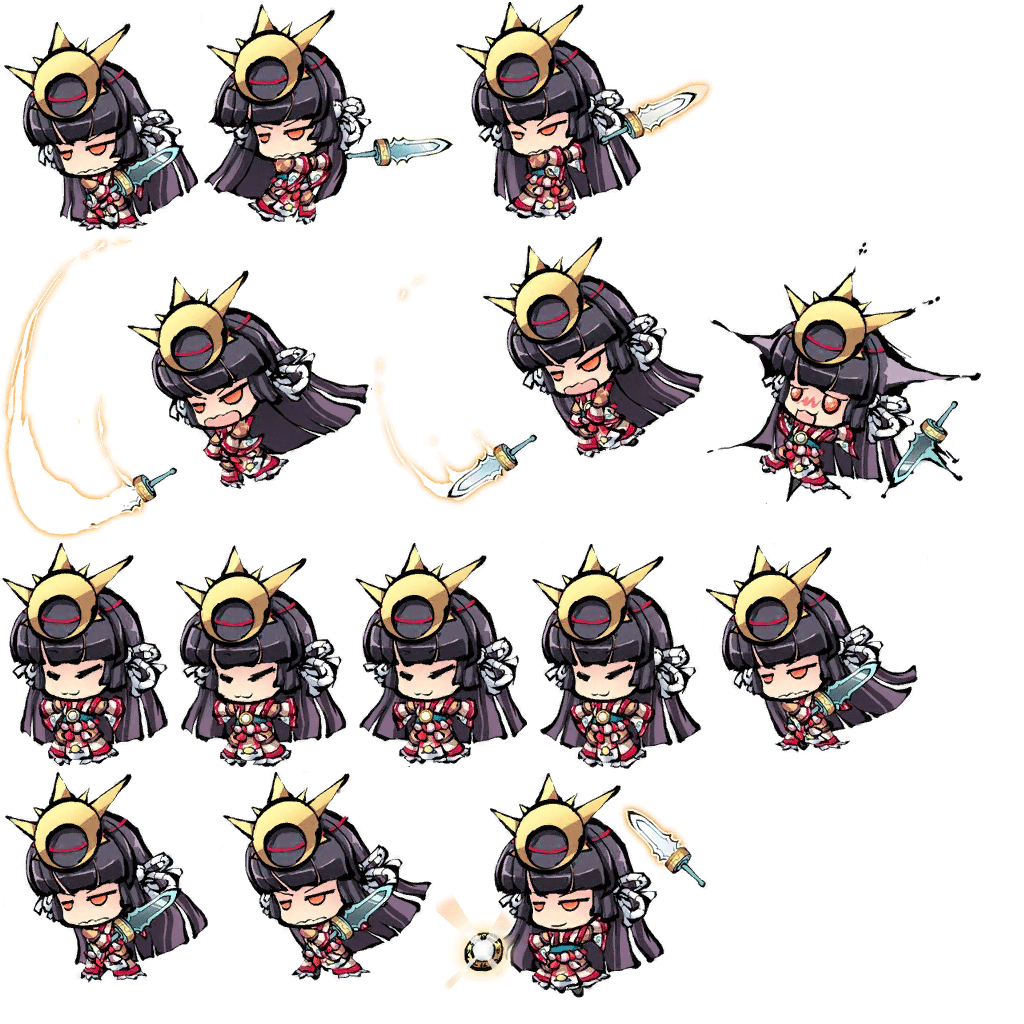
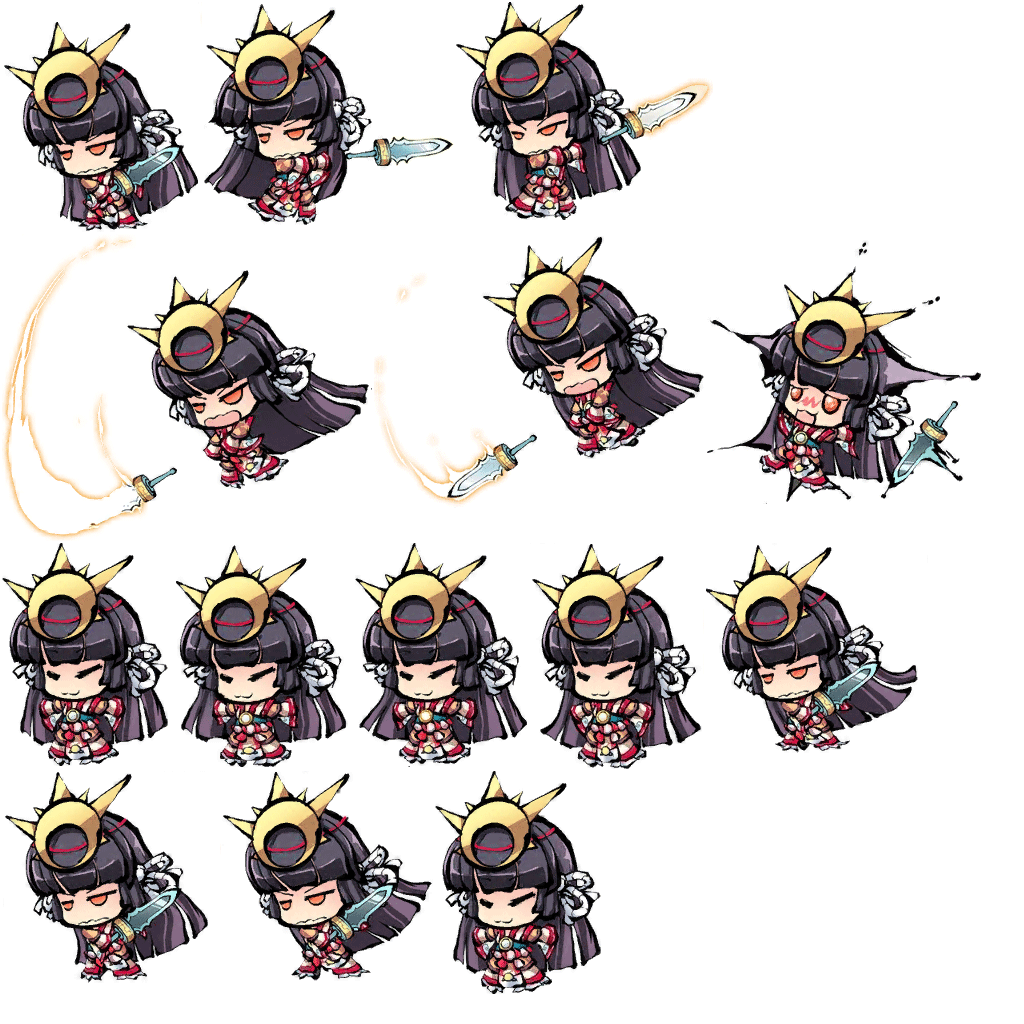
monster can hurt

Changed region(s): [[0.4062, 0.75, 0.6875, 0.9688]]

diff --git a/Classes/Entity/Monster.cpp b/Classes/Entity/Monster.cpp
@@ -118,6 +118,21 @@ void Monster::attackLogic()
 
 void Monster::attackedLogic()
 {
+	m_iXSpeed = 0;
+	m_iYSpeed = 0;
+
+	m_pHPBar->setResidueHp(m_iHP / (float)m_iMaxHP * 100);
+
+	if (m_iHP == 0)
+	{
+		m_pHPBar->startFadeOut();
+		this->monsterDeath();
+		this->unscheduleUpdate();
+	}
+	else
+	{
+		this->hurt();
+	}
 }
 
 void Monster::attackEndLogic()
@@ -166,17 +181,12 @@ bool Monster::init(const MonsterData & monsterData)
 	m_iAttackCDTime = monsterData.i_attackCDTime;
 	m_iMaxHP = m_iHP;
 
-	Sprite* empty = Sprite::createWithSpriteFrameName("HP_Bar_Empty.png");
-	m_pHPBar = LoadingBar::create("HP_Bar.png");
-	empty->addChild(m_pHPBar);
-	this->addChild(empty);
+	Size size = m_pSprite->getContentSize() * getScale();
 
-	m_pHPBar->setDirection(LoadingBar::Direction::LEFT);
-	m_pHPBar->setPercent(m_iHP / m_iMaxHP * 100);
-	m_pHPBar->setPosition(Vec2(459, 44));
-
-	empty->setPosition(Vec2(10, 220));
-	empty->setScale(0.2);
+	m_pHPBar = HpBar::create();
+	m_pHPBar->setHpBarPosition(Point(20, size.height));
+	m_pHPBar->setResidueHp(m_iHP / (float)m_iMaxHP * 100);
+	this->addChild(m_pHPBar);
 	
 	NotificationCenter::getInstance()->addObserver(
 		this,
@@ -313,14 +323,14 @@ void Monster::checkAttckFlyingObjectPath(Ref * pSender)
 
 void Monster::checkBeHit(Ref * pSender)
 {
-	if (m_bIsDeath)
+	if (m_enMonsterState == en_as_attacked || m_bIsDeath)
 	{
 		return;
 	}
 
-	Point* objectPoint = (Point*)pSender;
-	float objectX = objectPoint->x;
-	float objectY = objectPoint->y;
+	FlyingObjectCheckInformation* objectPoint = (FlyingObjectCheckInformation*)pSender;
+	float objectX = objectPoint->point_checkPoint.x;
+	float objectY = objectPoint->point_checkPoint.y;
 
 	Point monsterPoint = this->getPosition();
 	Size monsterSize = m_pSprite->getContentSize() * this->getScale();
@@ -338,7 +348,12 @@ void Monster::checkBeHit(Ref * pSender)
 	if (objectX > monsterLeftXCheck && objectX < monsterRightXCheck)
 	{
 		NotificationCenter::getInstance()->postNotification("stop_flying", NULL);
-		this->hurt();
+		m_enMonsterState = en_ms_attacked;
+		m_iHP -= objectPoint->i_attack;
+		if (m_iHP < 0)
+		{
+			m_iHP = 0;
+		}
 	}
 }
 
@@ -347,7 +362,8 @@ void Monster::checkDistanceWithPlayer(Ref * pSender)
 	Point* playerPoint = (Point*)pSender;
 	m_pointPlayerPos = Point(playerPoint->x, playerPoint->y);
 
-	if (m_enActionState == en_as_attack)
+	if (m_enMonsterState == en_ms_attack
+		|| m_enMonsterState == en_ms_attacked)
 	{
 		return;
 	}

diff --git a/Classes/Entity/CombatEntity.cpp b/Classes/Entity/CombatEntity.cpp
@@ -130,19 +130,19 @@ void CombatEntity::hurt()
 
 	m_pSprite->stopAllActions();
 
-	--m_iHP;
-	if (m_iHP == 0)
-	{
-		if (m_bIsMonster)
-		{
-			this->monsterDeath();
-		}
-		else
-		{
-			this->playerDeath();
-		}
-		return;
-	}
+	//--m_iHP;
+	//if (m_iHP == 0)
+	//{
+	//	if (m_bIsMonster)
+	//	{
+	//		this->monsterDeath();
+	//	}
+	//	else
+	//	{
+	//		this->playerDeath();
+	//	}
+	//	return;
+	//}
 
 	//获取已经做好的动画
 	Animation* hurtAnimation = AnimationCache::getInstance()->getAnimation(StringUtils::format("%s_hurt", m_strCharacterName.c_str()).c_str());
@@ -150,8 +150,9 @@ void CombatEntity::hurt()
 	Animate* hurtAnimate = Animate::create(hurtAnimation);
 
 	auto callfunc = CallFunc::create(CC_CALLBACK_0(CombatEntity::idle, this));
+	auto callfuncHurtEnd = CallFunc::create(CC_CALLBACK_0(CombatEntity::changeMonsterState, this, en_ms_patrol));
 
-	Sequence* actionSequnence = Sequence::create(hurtAnimate, callfunc, NULL);
+	Sequence* actionSequnence = Sequence::create(hurtAnimate, callfuncHurtEnd, callfunc, NULL);
 	m_pSprite->runAction(actionSequnence);
 }
 
@@ -159,12 +160,13 @@ void CombatEntity::monsterDeath()
 {
 	Animation* hurtAnimation = AnimationCache::getInstance()->getAnimation(StringUtils::format("%s_hurt", m_strCharacterName.c_str()).c_str());
 	Animate* hurtAnimate = Animate::create(hurtAnimation);
-	Blink* blinkAction = Blink::create(1.5f, 3);
+	Blink* blinkAction = Blink::create(1.0f, 2);
+	FadeOut* fadeOut = FadeOut::create(1.0f);
 
 	auto sendScoreMsg = CallFunc::create([&]() { NotificationCenter::getInstance()->postNotification("update_score", (Ref*)m_iMoney); });
 
 	Spawn* actionList = Spawn::create(hurtAnimate, blinkAction, nullptr);
-	Sequence* actionSequnence = Sequence::create(sendScoreMsg, actionList, nullptr);
+	Sequence* actionSequnence = Sequence::create(sendScoreMsg, actionList, fadeOut, nullptr);
 
 	m_pSprite->runAction(actionSequnence);
 }

diff --git a/Classes/Entity/AttackFlyingObject.cpp b/Classes/Entity/AttackFlyingObject.cpp
@@ -20,6 +20,7 @@ AttackFlyingObject * AttackFlyingObject::create(const AtkFlyObjIniInfo & objectI
 
 bool AttackFlyingObject::init(const AtkFlyObjIniInfo & objectInfo)
 {
+	m_iAttack = objectInfo.i_attack;
 	m_strObjectName = objectInfo.cs_objectName;
 	m_vec2FlightDistance = objectInfo.vec2_flightDistance;
 	m_vec2Speed = objectInfo.vec2_speed;
@@ -60,12 +61,14 @@ void AttackFlyingObject::update(float dt)
 	if (m_fXSpeed > 0)
 	{
 		Point checkPoint = Point(pos.x + spriteWidth, pos.y);
-		NotificationCenter::getInstance()->postNotification("attack_flying_object_check_point", (Ref*)&checkPoint);
+		AtkFlyObjChkInfo checkInfo = { checkPoint, m_iAttack };
+		NotificationCenter::getInstance()->postNotification("attack_flying_object_check_point", (Ref*)&checkInfo);
 	}
 	else if (m_fXSpeed < 0)
 	{
 		Point checkPoint = Point(pos.x - spriteWidth, pos.y);
-		NotificationCenter::getInstance()->postNotification("attack_flying_object_check_point", (Ref*)&checkPoint);
+		AtkFlyObjChkInfo checkInfo = { checkPoint, m_iAttack };
+		NotificationCenter::getInstance()->postNotification("attack_flying_object_check_point", (Ref*)&checkInfo);
 	}
 }
 

diff --git a/Classes/HpBar.cpp b/Classes/HpBar.cpp
@@ -1,0 +1,49 @@
+#include "HpBar.h"
+
+bool HpBar::init()
+{
+	do
+	{
+		CC_BREAK_IF(!Node::init());
+
+		m_pEmptyHpBar = Sprite::createWithSpriteFrameName("HP_Bar_Empty.png");
+		m_pHpBar = LoadingBar::create("HP_Bar.png");
+		m_pEmptyHpBar->addChild(m_pHpBar);
+		this->addChild(m_pEmptyHpBar);
+
+		m_pHpBar->setDirection(LoadingBar::Direction::LEFT);
+		m_pHpBar->setPosition(Vec2(459, 44));
+
+		m_pEmptyHpBar->setScale(0.2);
+
+		return true;
+	} while (0);
+
+	return false;
+}
+
+void HpBar::setHpBarPosition(Point pos)
+{
+	setPosition(pos);
+}
+
+void HpBar::setResidueHp(float residue)
+{
+	m_pHpBar->setPercent(residue);
+}
+
+void HpBar::startFadeOut()
+{
+	Blink* blinkAction = Blink::create(1.0f, 2);
+	FadeOut* fadeOut = FadeOut::create(1.0f);
+	Sequence* actionSequnence = Sequence::create(blinkAction, fadeOut, nullptr);
+	m_pEmptyHpBar->runAction(actionSequnence);
+}
+
+HpBar::HpBar()
+{
+}
+
+HpBar::~HpBar()
+{
+}

diff --git a/Classes/CustomizeStruct.h b/Classes/CustomizeStruct.h
@@ -113,12 +113,14 @@ struct NPCSetInfo
  *	@cs_objectName	飞行物名称
  *	@vec2_changeDistance	飞行物飞行距离
  *	@vec2_speed	飞行物速度
+ *	@i_attack	飞行物攻击力
  */
 struct FlyingObjectInitialInformation
 {
 	const char* cs_objectName;
 	Point vec2_flightDistance;
 	Point vec2_speed;
+	int i_attack;
 };
 
 /**
@@ -134,6 +136,17 @@ struct FlyingObjectPositionInformation
 	bool b_isRight;
 	Point vec2_launcherPoint;
 	Point vec2_flightDistance;
+};
+
+/**
+ *	飞行物检查信息
+ *	@point_checkPoint	飞行物判定位置
+ *	@i_attack	飞行物攻击力
+ */
+struct FlyingObjectCheckInformation
+{
+	Point point_checkPoint;
+	int i_attack;
 };
 
 #define poslog(name, x, y) log("%s x:%f, y:%f", name, x, y);

diff --git a/Classes/Util/ResourcesLoadingUtil.cpp b/Classes/Util/ResourcesLoadingUtil.cpp
@@ -7,7 +7,7 @@ void ResourcesLoadingUtil::preloadResources()
 	spriteFrameCache->addSpriteFramesWithFile("UI_01.plist");
 	spriteFrameCache->addSpriteFramesWithFile("UI_02.plist");
 	spriteFrameCache->addSpriteFramesWithFile("TP.plist");
-	spriteFrameCache->addSpriteFramesWithFile("monster.plist");
+	spriteFrameCache->addSpriteFramesWithFile("Monster.plist");
 	spriteFrameCache->addSpriteFramesWithFile("text.plist");
 	spriteFrameCache->addSpriteFramesWithFile("sceneitem.plist");
 	spriteFrameCache->addSpriteFramesWithFile("Number.plist");

diff --git a/Classes/Layer/GameLayer.cpp b/Classes/Layer/GameLayer.cpp
@@ -126,7 +126,7 @@ void GameLayer::setGameScene_1_1(PlayerData & playerData)
 
 	m_pPlayerController->setMap(m_pMap);
 
-	AtkFlyObjIniInfo fireballInfo = { "fireball", Vec2(m_sctPlayerData.i_attack, 0), Vec2(m_sctPlayerData.i_xSpeed + 1, 0) };
+	AtkFlyObjIniInfo fireballInfo = { "fireball", Vec2(m_sctPlayerData.i_attackRange, 0), Vec2(m_sctPlayerData.i_xSpeed + 1, 0), m_sctPlayerData.i_attack };
 	for (int i = 0; i < 3; i++)
 	{
 		AttackFlyingObject* flyingObject = AttackFlyingObject::create(fireballInfo);

diff --git a/Classes/HpBar.h b/Classes/HpBar.h
@@ -1,0 +1,29 @@
+#pragma once
+#ifndef __HP_BAR_H__
+#define __HP_BAR_H__
+
+#include "cocos2d.h"
+#include "ui/CocosGUI.h"
+
+USING_NS_CC;
+using namespace cocos2d::ui;
+
+class HpBar : public Node
+{
+public:
+	CREATE_FUNC(HpBar);
+	virtual bool init();
+
+	void setHpBarPosition(Point pos);
+	void setResidueHp(float residue);
+	void startFadeOut();
+
+private:
+	HpBar();
+	virtual ~HpBar();
+	Sprite* m_pEmptyHpBar;
+	LoadingBar* m_pHpBar;
+};
+
+
+#endif // !__HP_BAR_H__

diff --git a/Classes/Entity/FlyingObject.h b/Classes/Entity/FlyingObject.h
@@ -4,9 +4,6 @@
 
 #include "Entity.h"
 
-#define HORIZONTAL_DISTANCE 150
-#define VERTICAL_DISTANCE 0
-
 class FlyingObject : public Entity
 {
 public:
@@ -17,6 +14,8 @@ protected:
 	const char* m_strObjectName;	//飞行物名称
 	Vec2 m_vec2Speed;	//飞行物速度
 	Point m_vec2FlightDistance;		//飞行距离
+
+	int m_iAttack;
 
 	float m_fXSpeed;	//X轴速度
 	float m_fYSpeed;	//Y轴速度

diff --git a/Classes/Entity/AttackFlyingObject.h b/Classes/Entity/AttackFlyingObject.h
@@ -6,6 +6,7 @@
 
 typedef FlyingObjectInitialInformation AtkFlyObjIniInfo;
 typedef FlyingObjectPositionInformation AtkFlyObjPosInfo;
+typedef FlyingObjectCheckInformation AtkFlyObjChkInfo;
 
 class AttackFlyingObject : public FlyingObject
 {

diff --git a/Classes/Entity/Monster.h b/Classes/Entity/Monster.h
@@ -28,7 +28,7 @@ private:
 	void checkDistanceWithPlayer(Ref* pSender);
 
 private:
-	LoadingBar* m_pHPBar;
+	HpBar* m_pHPBar;
 
 	int m_iXSpeed;	//X轴移速
 	int m_iYSpeed;	//Y轴移速

diff --git a/Classes/Entity/CombatEntity.h b/Classes/Entity/CombatEntity.h
@@ -3,8 +3,7 @@
 #define __COMBAT_ENTITY_H__
 
 #include "CustomizeStruct.h"
-#include "ui/CocosGUI.h"
-using namespace cocos2d::ui;
+#include "HpBar.h"
 
 enum MonsterState
 {
